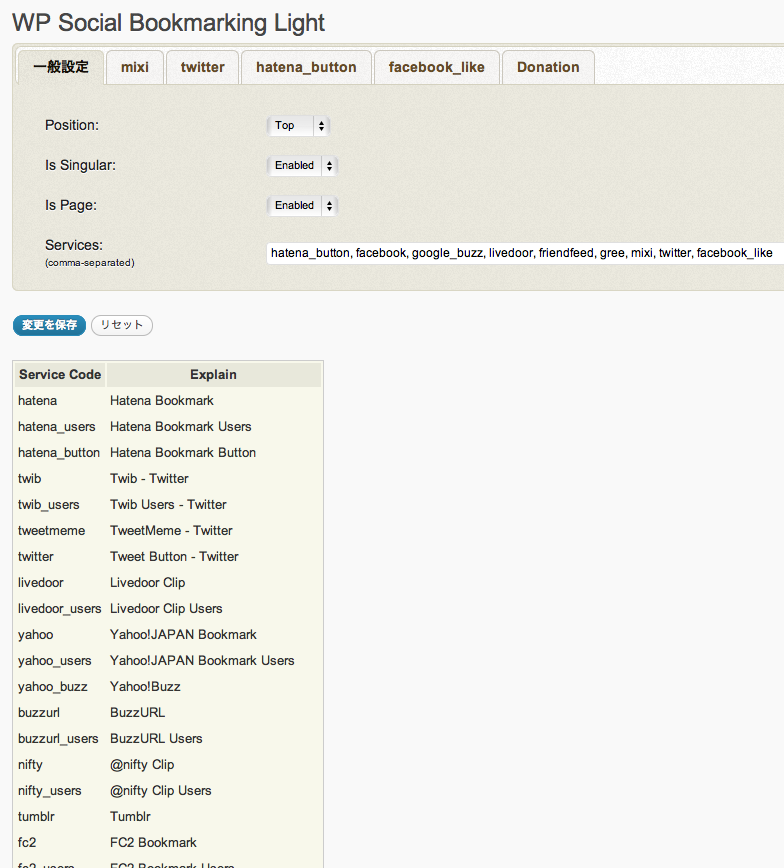
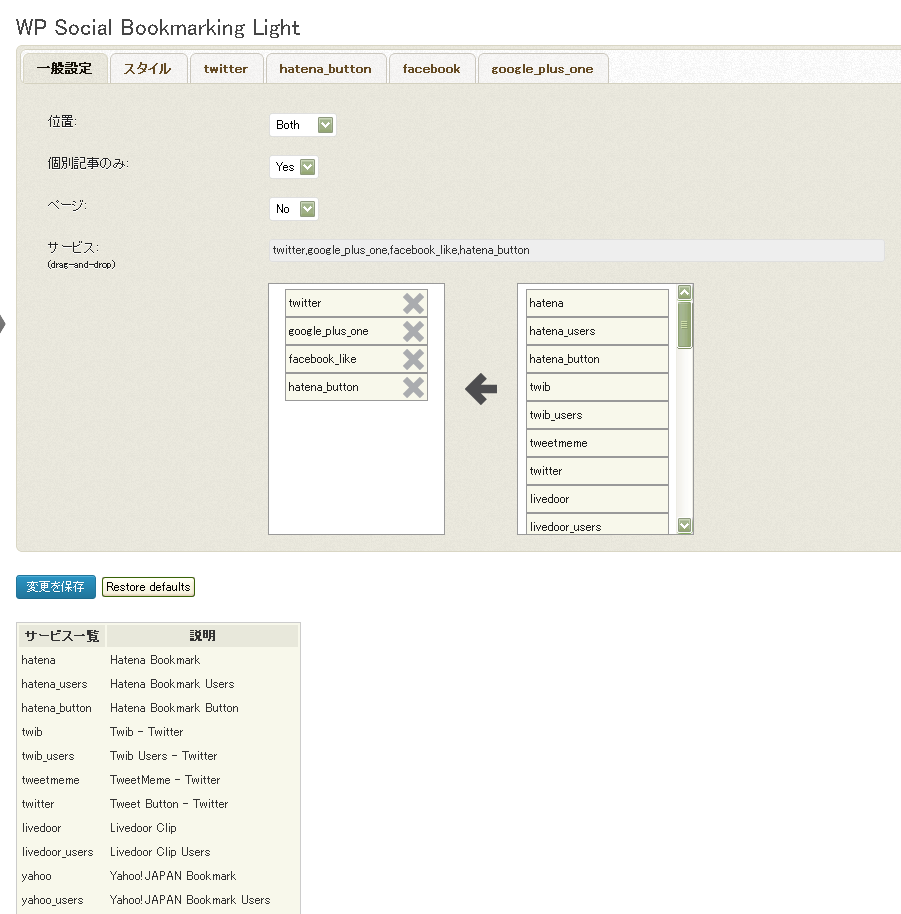
update 1.7.4
git-svn-id: https://plugins.svn.wordpress.org/wp-social-bookmarking-light/trunk@650224 b8457f37-d9ea-0310-8a92-e5e31aec5664

Changed region(s): [[0.0, 0.1244, 1.0, 1.0], [0.0, 0.0, 0.7653, 0.0933], [0.7653, 0.0933, 1.0, 0.1244]]

diff --git a/modules/admin.php b/modules/admin.php
@@ -292,6 +292,7 @@ function wp_social_bookmarking_light_options_page()
                 <select name='position'>
                 <option value='top' <?php if( $options['position'] == 'top' ) echo 'selected'; ?>>Top</option>
                 <option value='bottom' <?php if( $options['position'] == 'bottom' ) echo 'selected'; ?>>Bottom</option>
+                <option value='both' <?php if( $options['position'] == 'both' ) echo 'selected'; ?>>Both</option>
                 <option value='none' <?php if( $options['position'] == 'none' ) echo 'selected'; ?>>None</option>
                 </select>
                 </td>
@@ -727,14 +728,22 @@ function wp_social_bookmarking_light_options_page()
                 </td>
             </tr>
             <tr>
-                <th scope="row">Include count:</th>
+                <th scope="row">Annotation:</th>
                 <td>
-                <select name='google_plus_one_count'>
-                <option value='true' <?php if( $options['google_plus_one']['count'] == true ) echo 'selected'; ?>>Yes</option>
-                <option value='false' <?php if( $options['google_plus_one']['count'] == false ) echo 'selected'; ?>>No</option>
+                <select name='google_plus_one_annotation'>
+                <option value='none' <?php if( $options['google_plus_one']['annotation'] == "none" ) echo 'selected'; ?>>none</option>
+                <option value='bubble' <?php if( $options['google_plus_one']['annotation'] == "bubble" ) echo 'selected'; ?>>bubble</option>
+                <option value='inline' <?php if( $options['google_plus_one']['annotation'] == "inline" ) echo 'selected'; ?>>inline</option>
                 </select>
                 </td>
             </tr>
+            <tr>
+                <th scope="row">Inline size:</th>
+                <td>
+                <input type="text" name='google_plus_one_inline_size' value="<?php echo $options['google_plus_one']["inline_size"] ?>" />
+                </td>
+            </tr>
+            
             </table>
         </div>
 

diff --git a/modules/options.php b/modules/options.php
@@ -79,8 +79,9 @@ EOT;
                   'tumblr' => array('button_type' => '1'),
                   'atode' => array('button_type' => 'iconsja'),
                   'google_plus_one' => array('button_size' => 'medium',
-                                                'lang' => 'en-US',
-                                                'count' => true),
+                                             'lang' => 'en-US',
+                                             'annotation' => 'none',
+                                             'inline_size' => '250'),
                   'line' => array('button_type' => 'line88x20'),
     );
 }
@@ -140,8 +141,9 @@ function wp_social_bookmarking_light_save_options($data)
                       'tumblr' => array('button_type' => $data['tumblr_button_type']),
                       'atode' => array('button_type' => $data['atode_button_type']),
                       'google_plus_one' => array('button_size' => $data['google_plus_one_button_size'],
-                                                    'lang' => $data['google_plus_one_lang'],
-                                                    'count' => $data['google_plus_one_count'] == 'true'),
+                                                  'lang' => $data['google_plus_one_lang'],
+                                                  'annotation' => $data['google_plus_one_annotation'],
+                                                  'inline_size' => $data['google_plus_one_inline_size']),
                       'line' => array('button_type' => $data['line_button_type']),
     );
     update_option( 'wp_social_bookmarking_light_options', $options );

diff --git a/modules/content.php b/modules/content.php
@@ -92,11 +92,6 @@ function wp_social_bookmarking_light_wp_head()
         $locale = ($locale == '' ? 'en_US' : $locale);
         echo '<script type="text/javascript" src="http://connect.facebook.net/'.$locale.'/all.js#xfbml=1"></script>'."\n";
     }
-    // Google +1
-    if(in_array('google_plus_one', $services)){
-        $lang = $options['google_plus_one']['lang'];
-        echo '<script type="text/javascript" src="http://apis.google.com/js/plusone.js">{lang:\''.$lang.'\'}</script>'."\n";
-    }
 
     // css
 ?>
@@ -134,6 +129,9 @@ function wp_social_bookmarking_light_the_content( $content )
     else if( $options['position'] == 'bottom' ){
         return "{$content}{$out}";
     }
+    else if( $options['position'] == 'both'){
+        return "{$out}{$content}{$out}";
+    }
     return $content;
 }
 
@@ -156,6 +154,22 @@ function wp_social_bookmarking_light_wp_footer()
     if(in_array('evernote', $services)){
         echo '<script type="text/javascript" src="http://static.evernote.com/noteit.js"></script>'."\n";
     }
+    // Google +1
+    if(in_array('google_plus_one', $services)){
+        $lang = $options['google_plus_one']['lang'];
+?>
+<script type="text/javascript">
+  window.___gcfg = {lang: '<?php echo $lang ?>'};
+
+  (function() {
+    var po = document.createElement('script'); po.type = 'text/javascript'; po.async = true;
+    po.src = 'https://apis.google.com/js/plusone.js';
+    var s = document.getElementsByTagName('script')[0]; s.parentNode.insertBefore(po, s);
+  })();
+</script>
+<?php
+    }
+    
 ?>
 <!-- END: WP Social Bookmarking Light -->
 <?php

diff --git a/modules/services.php b/modules/services.php
@@ -312,8 +312,9 @@ class WpSocialBookmarkingLight
     {
         $options = wp_social_bookmarking_light_options();
         $button_size = $options['google_plus_one']['button_size'];
-        $include_count = $options['google_plus_one']['count'] ? '' : 'count="false"';
-        $raw = '<g:plusone size="'.$button_size.'" '.$include_count.' href="'.$this->url.'"></g:plusone>';
+        $annotation = $options['google_plus_one']['annotation'];
+        $width = $annotation == 'inline' ? 'width="'.$options['google_plus_one']['inline_size'].'"' : "";
+        $raw = '<g:plusone size="'.$button_size.'" annotation="'.$annotation.'" href="'.$this->url.'" '.$width.'></g:plusone>';
         return $this->link_raw($raw);
     }
 

diff --git a/wp-social-bookmarking-light.php b/wp-social-bookmarking-light.php
@@ -5,7 +5,7 @@ Plugin URI: http://www.ninxit.com/blog/2010/06/13/wp-social-bookmarking-light/
 Description: This plugin inserts social share links at the top or bottom of each post.
 Author: utahta
 Author URI: http://www.ninxit.com/blog/
-Version: 1.7.3
+Version: 1.7.4
 */
 /*
 Copyright 2010 utahta (email : labs.ninxit@gmail.com)
